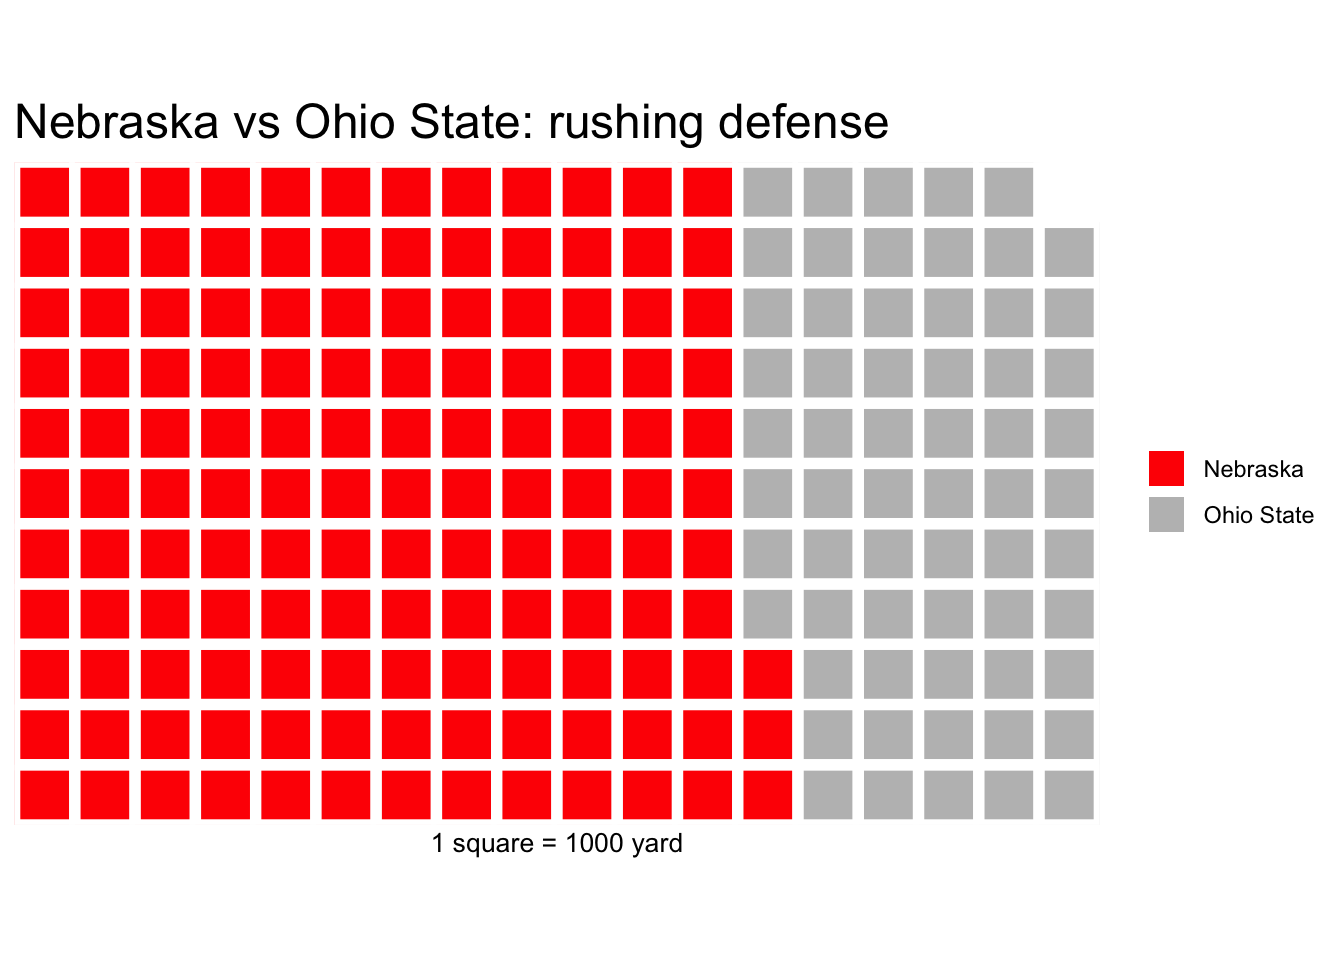
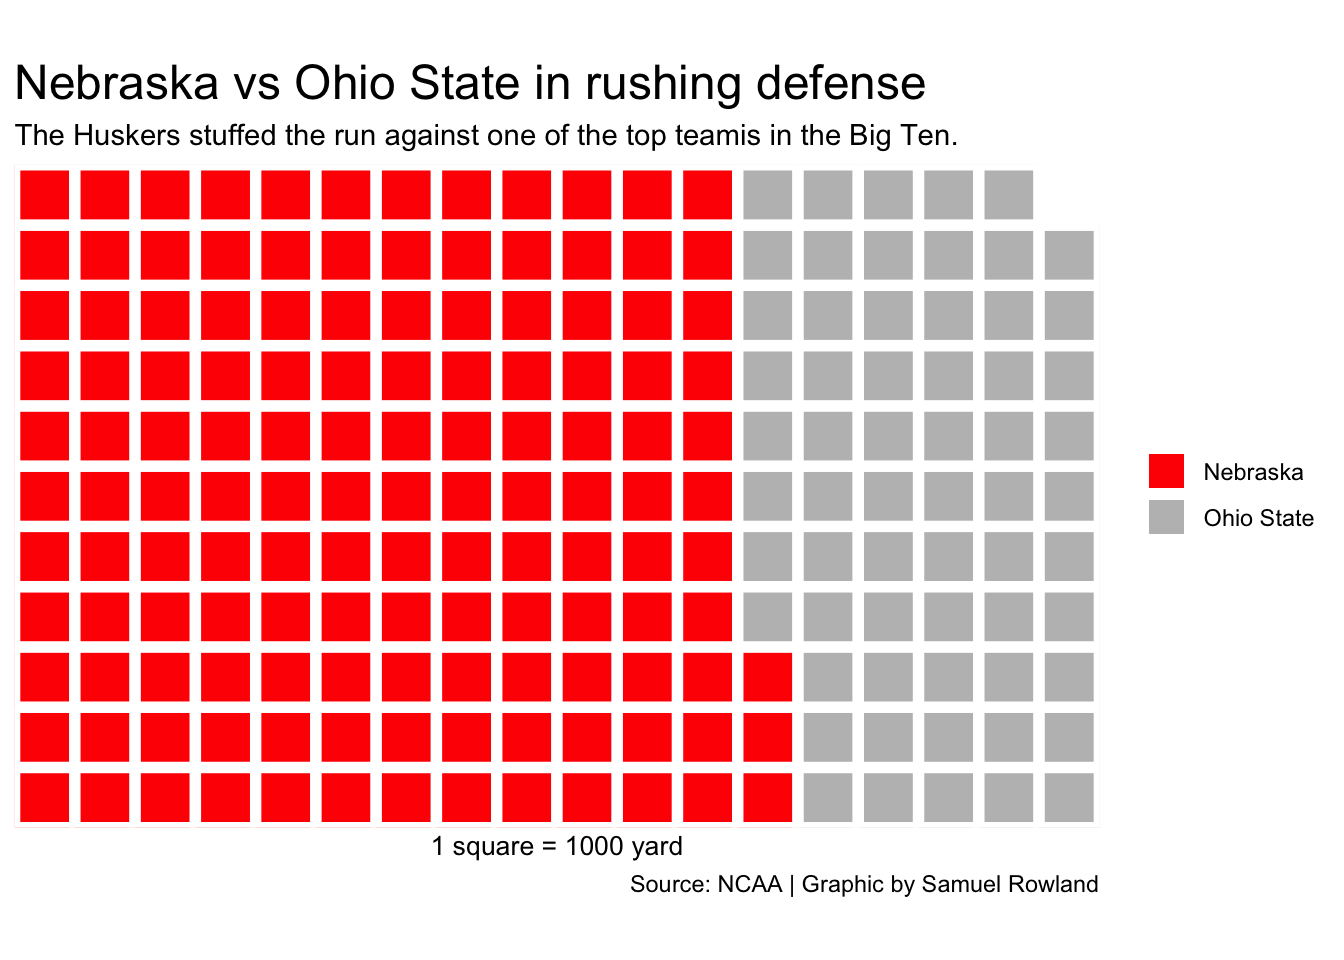
commit these files

diff --git a/post/2021/03/30/nebraska-s-defensive-play-improving-the-bigten/index.html b/post/2021/03/30/nebraska-s-defensive-play-improving-the-bigten/index.html
@@ -229,7 +229,8 @@ waffle(
   rows = 11,
   title = &quot;Nebraska vs Ohio State: rushing defense&quot;,
   xlab = &quot;1 square = 1000 yard&quot;,
-  colors = c(&quot;red&quot;, &quot;grey&quot;))</code></pre>
+  colors = c(&quot;red&quot;, &quot;grey&quot;)) + labs(title=&quot;Nebraska vs Ohio State in rushing defense&quot;, subtitle=&quot;The Huskers stuffed the run against one of the top teamis in the Big Ten.&quot;, caption=&quot;Source: NCAA | Graphic by Samuel Rowland&quot;) + 
+  theme()</code></pre>
 <p><img src="/post/2021-03-30-nebraska-s-offensive-progression-throughout-the-season/SamuelRowlandPlots_files/figure-html/unnamed-chunk-10-1.png" width="672" /></p>
 <pre class="r"><code>passing &lt;- c(&quot;Nebraska&quot;=1736, &quot;Ohio State&quot;=1965)
 
@@ -238,7 +239,8 @@ waffle(
   rows = 10,
   title = &quot;Nebraska vs Ohio State: passing defense&quot;,
   xlab = &quot;1 square = 1000 yard&quot;,
-  colors = c(&quot;red&quot;, &quot;grey&quot;))  </code></pre>
+  colors = c(&quot;red&quot;, &quot;grey&quot;))  + labs(title=&quot;Nebraska vs Ohio State in passing defense&quot;, subtitle=&quot;Ohio State dominated with multiple explosive weapons on offense.&quot;, caption=&quot;Source: NCAA | Graphic by Samuel Rowland&quot;) + 
+  theme()</code></pre>
 <p><img src="/post/2021-03-30-nebraska-s-offensive-progression-throughout-the-season/SamuelRowlandPlots_files/figure-html/unnamed-chunk-10-2.png" width="672" /></p>
 <pre class="r"><code>library(waffle)</code></pre>
 <pre class="r"><code>nu &lt;- c(&quot;DefRushingYds&quot; = 1356, &quot;DefPassingYds&quot; = 1736)
